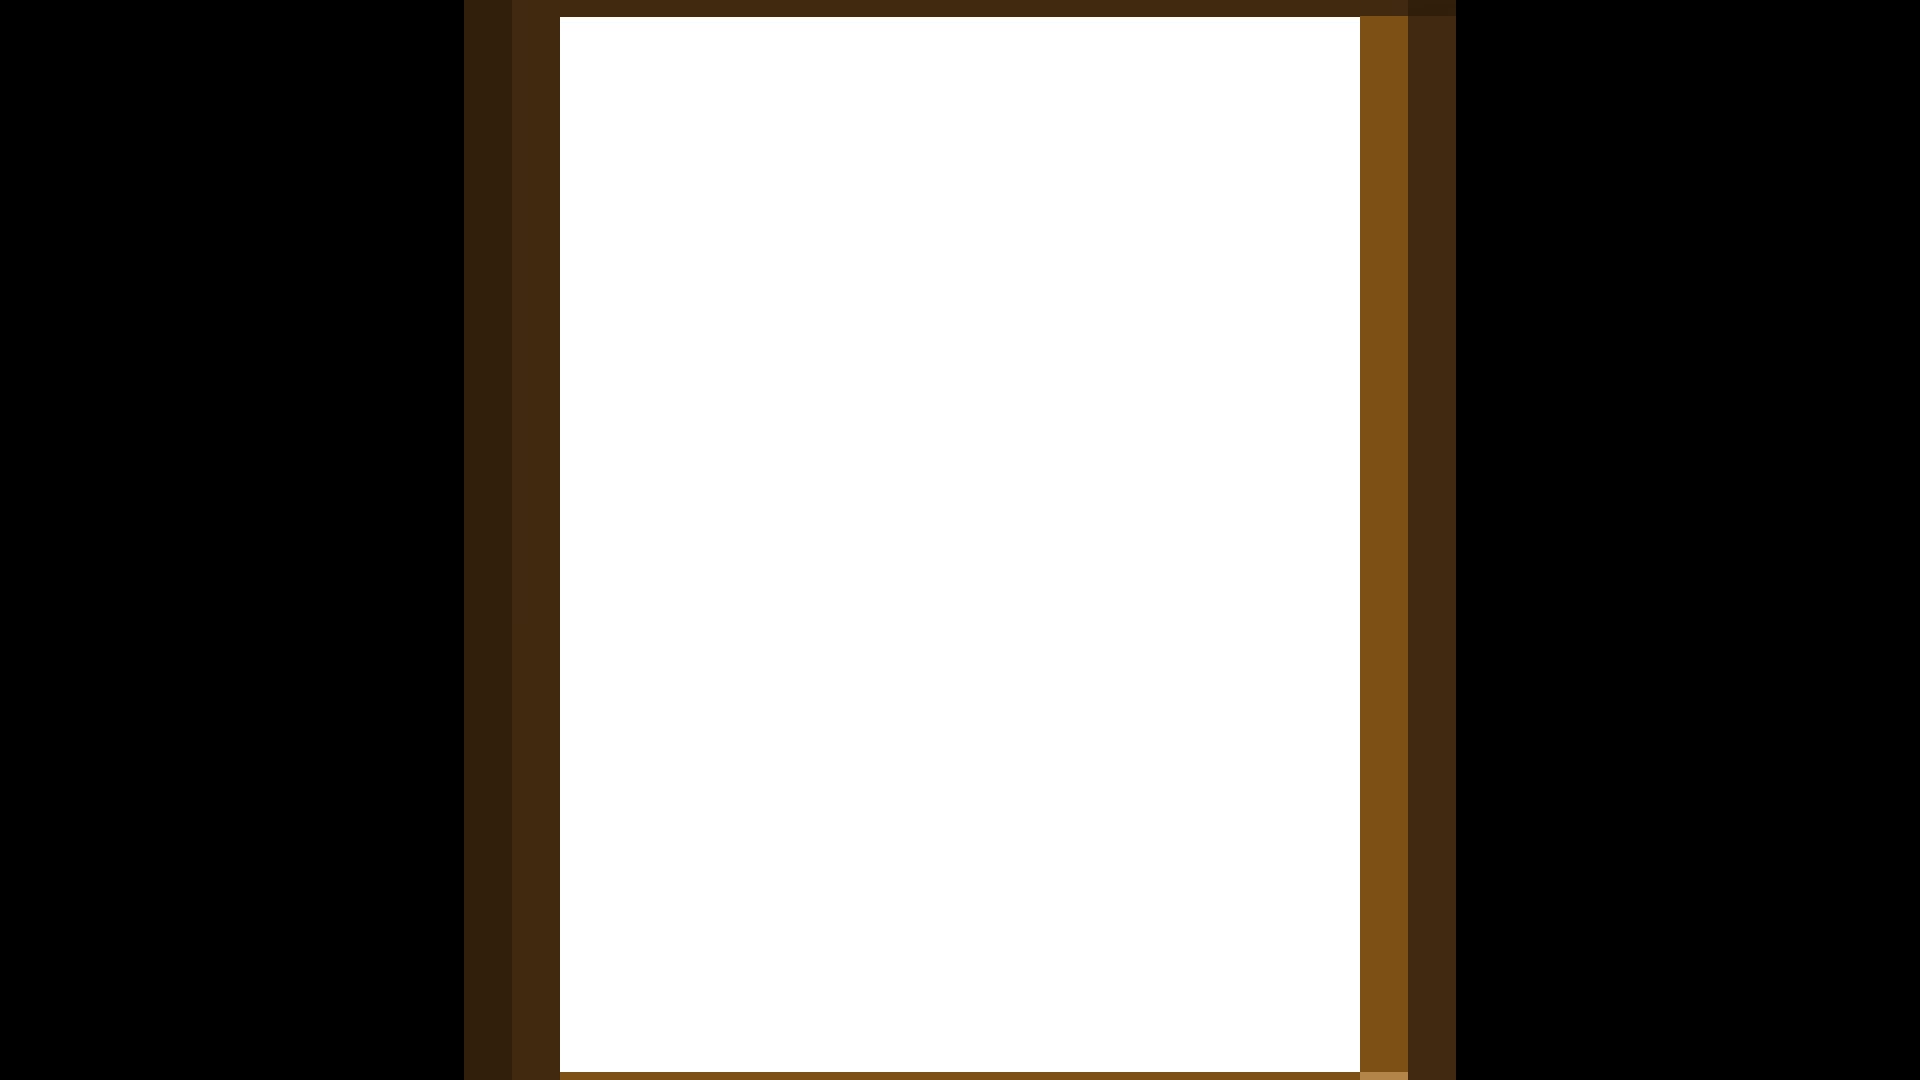
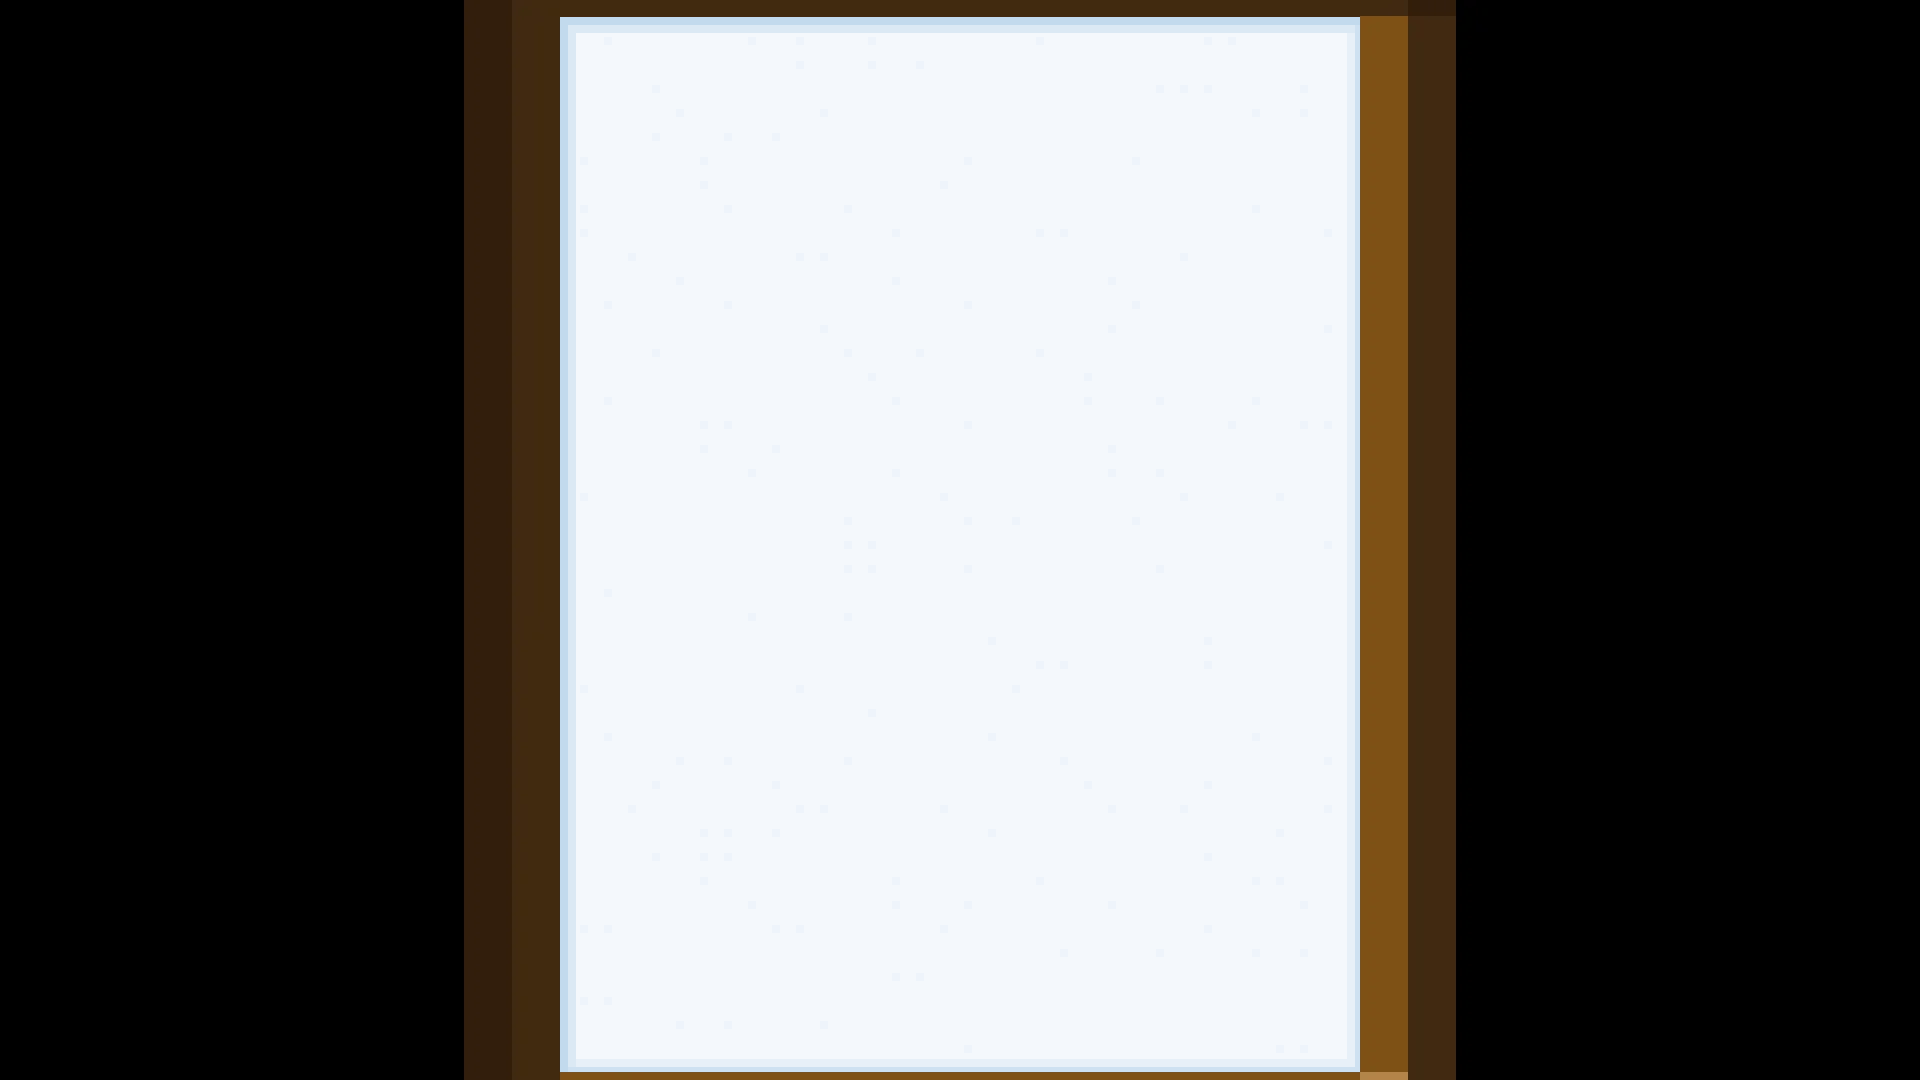
[0.2.2] Improve raycast system and change overlay to add glass details

Changed region(s): [[0.2812, 0.0, 0.7188, 1.0]]

diff --git a/src/main/java/dev/franzin/spyglass/ZoomManager.java b/src/main/java/dev/franzin/spyglass/ZoomManager.java
@@ -112,9 +112,7 @@ public final class ZoomManager {
     }
 
     private boolean shouldUpdate(@Nonnull ZoomState state, float newDistance) {
-        float diff = Math.abs(newDistance - state.currentDistance);
-        boolean movingCloser = newDistance < state.currentDistance;
-        return diff > ZoomConfig.UPDATE_THRESHOLD || movingCloser;
+        return state.currentDistance != newDistance;
     }
 
     private float calculateSafeDistance(
@@ -126,19 +124,18 @@ public final class ZoomManager {
         Transform transform = TargetUtil.getLook(entityRef, commandBuffer);
         Vector3d position = transform.getPosition();
         Vector3d direction = transform.getDirection();
-        float max_distance = ZoomConfig.MAX_DISTANCE * state.zoom_multiplier;
+        float maxDistance = ZoomConfig.MAX_DISTANCE * state.zoom_multiplier;
 
         Vector3i hitBlock = TargetUtil.getTargetBlock(
                 world,
                 (blockId, fluidId) -> blockId != 0,
                 position.x, position.y, position.z,
                 direction.x, direction.y, direction.z,
-                max_distance
+                maxDistance
         );
 
-
         if (hitBlock == null) {
-            return max_distance;
+            return maxDistance;
         }
 
         double dx = hitBlock.x + 0.5 - position.x;
@@ -146,20 +143,27 @@ public final class ZoomManager {
         double dz = hitBlock.z + 0.5 - position.z;
         float distanceToBlock = (float) Math.sqrt(dx * dx + dy * dy + dz * dz);
 
-        float safeDistance = distanceToBlock - ZoomConfig.COLLISION_MARGIN;
-        return Math.clamp(safeDistance, ZoomConfig.MIN_DISTANCE, max_distance);
+        float collisionMargin = computeCollisionMargin(maxDistance);
+        float safeDistance = distanceToBlock - collisionMargin;
+
+        return Math.clamp(safeDistance, ZoomConfig.MIN_DISTANCE, maxDistance);
+    }
+
+    private float computeCollisionMargin(float targetDistance) {
+        float scaledMargin = ZoomConfig.BASE_COLLISION_MARGIN + (targetDistance * ZoomConfig.COLLISION_SCALE_FACTOR);
+        return Math.min(scaledMargin, ZoomConfig.MAX_COLLISION_MARGIN);
     }
 
     private void sendCameraPacket(@Nonnull PlayerRef playerRef, float distance) {
         ServerCameraSettings settings = buildSettings(distance);
         playerRef.getPacketHandler().writeNoCache(
-                new SetServerCamera(ClientCameraView.Custom, false, settings)
+                new SetServerCamera(ClientCameraView.Custom, true, settings)
         );
     }
 
     private void resetCamera(@Nonnull PlayerRef playerRef) {
         playerRef.getPacketHandler().writeNoCache(
-                new SetServerCamera(ClientCameraView.Custom, false, null)
+                new SetServerCamera(ClientCameraView.Custom, true, null)
         );
     }
 
@@ -170,7 +174,7 @@ public final class ZoomManager {
         s.distance = -distance;
         s.eyeOffset = true;
         s.positionLerpSpeed = 0.2F;
-        s.rotationLerpSpeed = 0.01F;
+        s.rotationLerpSpeed = 0.1F;
         s.movementMultiplier = new Vector3f(0.33F, 0.33F, 0.33F);
         s.positionDistanceOffsetType = PositionDistanceOffsetType.DistanceOffset;
         s.sendMouseMotion = true;
@@ -196,11 +200,13 @@ public final class ZoomManager {
     public static class ZoomConfig {
         public static final float MAX_DISTANCE = 20.0f;
         public static final float MIN_DISTANCE = 1.0f;
-        public static final float COLLISION_MARGIN = 1.0f;
-        public static final float UPDATE_THRESHOLD = 0.3f;
+
         public static final float DEFAULT_ZOOM_MULTIPLIER = 1.0f;
         public static final float MAX_ZOOM_MULTIPLIER = 2.5f;
         public static final float ZOOM_MULTIPLIER_STEP = 0.5f;
 
+        public static final float BASE_COLLISION_MARGIN = 3.0f;
+        public static final float COLLISION_SCALE_FACTOR = 0.05f;
+        public static final float MAX_COLLISION_MARGIN = 4.0f;
     }
 }
